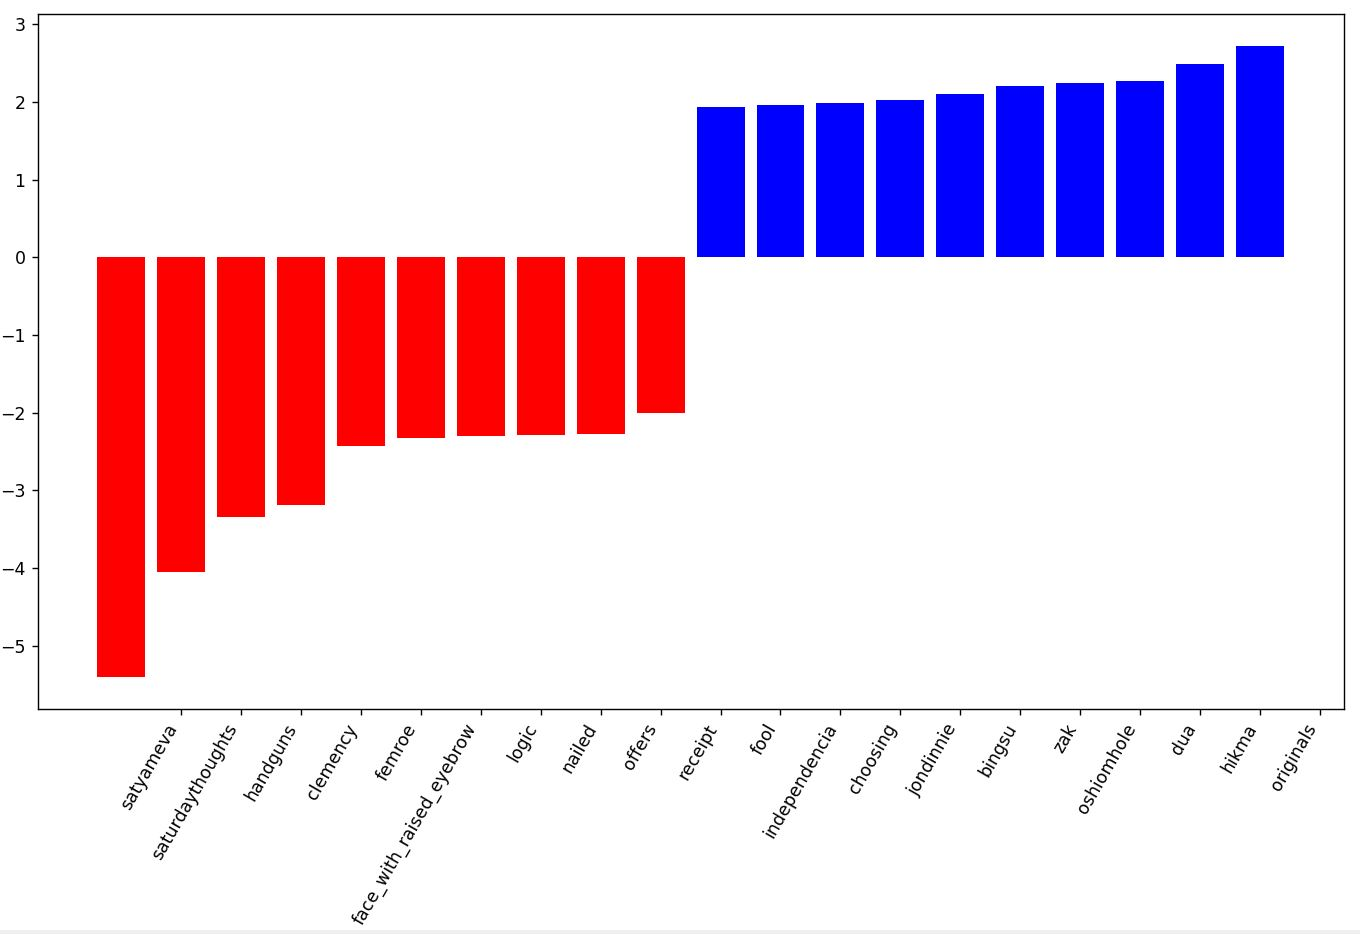
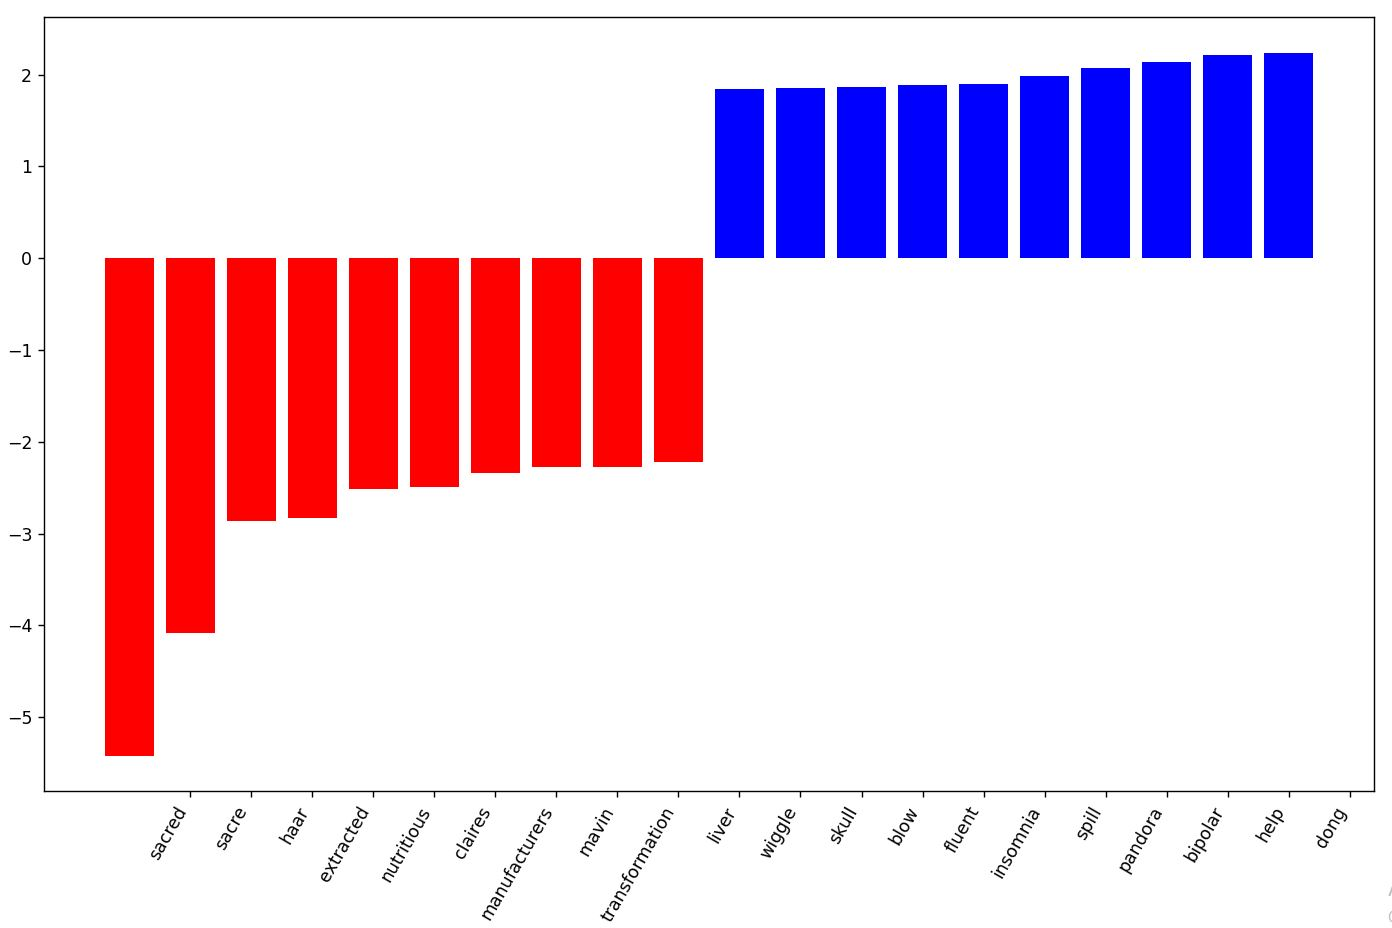
SVM with Glove

diff --git a/utils/predictions.py b/utils/predictions.py
@@ -11,10 +11,22 @@ from utils import preprocessing
 
 
 # makes dataframe and does preprocessing
-def make_dataframe(df_SPIRS_non_sarcastic, df_SPIRS_sarcastic, context = False, cue = False):
+def make_dataframe(df_SPIRS_non_sarcastic, df_SPIRS_sarcastic, context = False, cue = False, emoji = True):
     if context:  #retuns dataframe with columns 'sar_id', 'obl_id', 'eli_id', 'cue_id', 'sar_text', 'obl_text', 'eli_text', 'cue_text'
+        #remove NA from sar_text
         df_SPIRS_sarcastic = preprocessing.remove_na_from_column(df_SPIRS_sarcastic, 'sar_text')
         df_SPIRS_non_sarcastic = preprocessing.remove_na_from_column(df_SPIRS_non_sarcastic, 'sar_text')
+
+        # fill NA from other columns
+        df_SPIRS_sarcastic = preprocessing.fill_na_from_column(df_SPIRS_sarcastic, 'eli_text')
+        df_SPIRS_non_sarcastic = preprocessing.fill_na_from_column(df_SPIRS_non_sarcastic, 'eli_text')
+
+        df_SPIRS_sarcastic = preprocessing.fill_na_from_column(df_SPIRS_sarcastic, 'obl_text')
+        df_SPIRS_non_sarcastic = preprocessing.fill_na_from_column(df_SPIRS_non_sarcastic, 'obl_text')
+
+        if cue:
+            df_SPIRS_sarcastic = preprocessing.fill_na_from_column(df_SPIRS_sarcastic, 'cue_text')
+            # non sar has no cue text
 
         df_SPIRS_sarcastic = preprocessing.get_df_context(df_SPIRS_sarcastic, cue=cue)
         df_SPIRS_non_sarcastic = preprocessing.get_df_context(df_SPIRS_non_sarcastic, cue=cue)
@@ -24,11 +36,11 @@ def make_dataframe(df_SPIRS_non_sarcastic, df_SPIRS_sarcastic, context = False, 
 
         df_SPIRS = pd.concat([df_SPIRS_sarcastic, df_SPIRS_non_sarcastic], ignore_index=True)
 
-        df_SPIRS = preprocessing.preprocess_tweets(df_SPIRS, 'sar_text', keep_emoji=True)
-        df_SPIRS = preprocessing.preprocess_tweets(df_SPIRS, 'obl_text', keep_emoji=True)
-        df_SPIRS = preprocessing.preprocess_tweets(df_SPIRS, 'eli_text', keep_emoji=True)
+        df_SPIRS = preprocessing.preprocess_tweets(df_SPIRS, 'sar_text', keep_emoji=emoji)
+        df_SPIRS = preprocessing.preprocess_tweets(df_SPIRS, 'obl_text', keep_emoji=emoji)
+        df_SPIRS = preprocessing.preprocess_tweets(df_SPIRS, 'eli_text', keep_emoji=emoji)
         if cue:
-            df_SPIRS = preprocessing.preprocess_tweets(df_SPIRS, 'cue_text', keep_emoji=True)
+            df_SPIRS = preprocessing.preprocess_tweets(df_SPIRS, 'cue_text', keep_emoji=emoji)
 
     else:  #returns dataframe with columns tweet_id, tweet, label
         non_sarcastic_tweets = np.array(df_SPIRS_non_sarcastic['sar_text'])

diff --git a/svm.py b/svm.py
@@ -11,6 +11,7 @@ import math
 df_SPIRS_sarcastic = pd.read_csv('SPIRS-sarcastic.csv')
 df_SPIRS_non_sarcastic = pd.read_csv('SPIRS-non-sarcastic.csv')
 
+
 #####SVM ONLY SAR_TEXT
 df_SPIRS = pf.make_dataframe(df_SPIRS_sarcastic, df_SPIRS_non_sarcastic)
 
@@ -55,24 +56,24 @@ n_train = math.floor(0.8 * df_SPIRS['label'].shape[0])
 df = pd.DataFrame({'sar_id': df_SPIRS['sar_id'][n_train:], 'label': y_test, 'predicted_value': tfidf_pred})
 pf.json_metrics("json\SVMmetrics.json", "SVM - LinearSVC with context", "TF-IDF", metrics_context, df)
 
-'''
-#### GLOVE EMBEDDING WITH CONTEXT
 
-df_SPIRS = pf.make_dataframe(df_SPIRS_sarcastic, df_SPIRS_non_sarcastic, context=True, cue=True)
+
+#### GLOVE EMBEDDING WITH CONTEXT
+df_SPIRS = pf.make_dataframe(df_SPIRS_sarcastic, df_SPIRS_non_sarcastic, context=True)
 
 df_SPIRS = df_SPIRS.sample(frac=1) #shuffle
 x_train, x_test, y_train, y_test = train_test_split(df_SPIRS.loc[:, ['sar_text', 'obl_text', 'eli_text']], df_SPIRS['label'], test_size=0.2, shuffle=False)
 
-glove_train, glove_test = preprocessing.get_glove_embedding(x_train['sar_text'], x_test['sar_text'])
-print(glove_train.shape,  glove_test.shape)
+glove_train, glove_test = preprocessing.get_glove_embedding_SVM(x_train.loc[:, ['sar_text', 'obl_text', 'eli_text']], x_test.loc[:, ['sar_text', 'obl_text', 'eli_text']])
 
-svm_classifier = svm.LinearSVC().fit(glove_train, y_train['label'])
+svm_classifier = svm.LinearSVC().fit(glove_train, y_train)
 glove_test_pred = svm_classifier.predict(glove_test)
+
+#pf.plot_coefficients(svm_classifier, )
 
 metrics_context = pf.metrics(y_test, glove_test_pred, target_names=['Non-sarcastic', 'Sarcastic'])
 print(metrics_context)
 
 n_train = math.floor(0.8 * df_SPIRS['label'].shape[0])
 df = pd.DataFrame({'sar_id': df_SPIRS['sar_id'][n_train:], 'label': y_test, 'predicted_value': glove_test_pred})
-pf.json_metrics("json\SVMmetrics.json", "SVM - LinearSVC with context", "TF-IDF", metrics_context, df)
-'''
+pf.json_metrics("json\SVMmetrics.json", "SVM - LinearSVC with context", "Glove", metrics_context, df)
